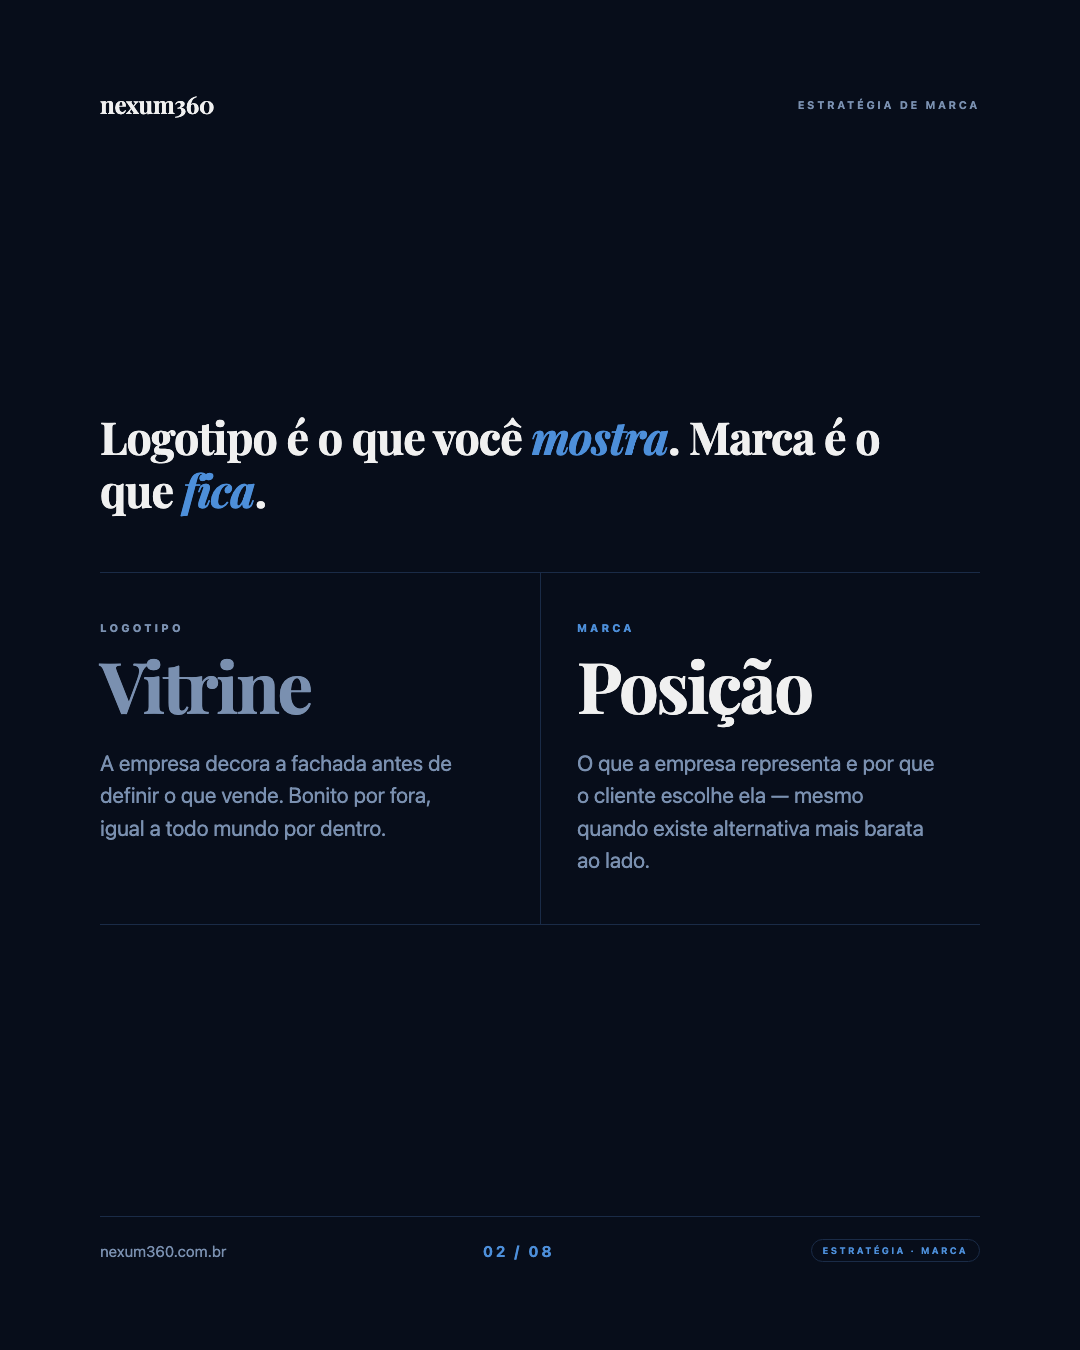
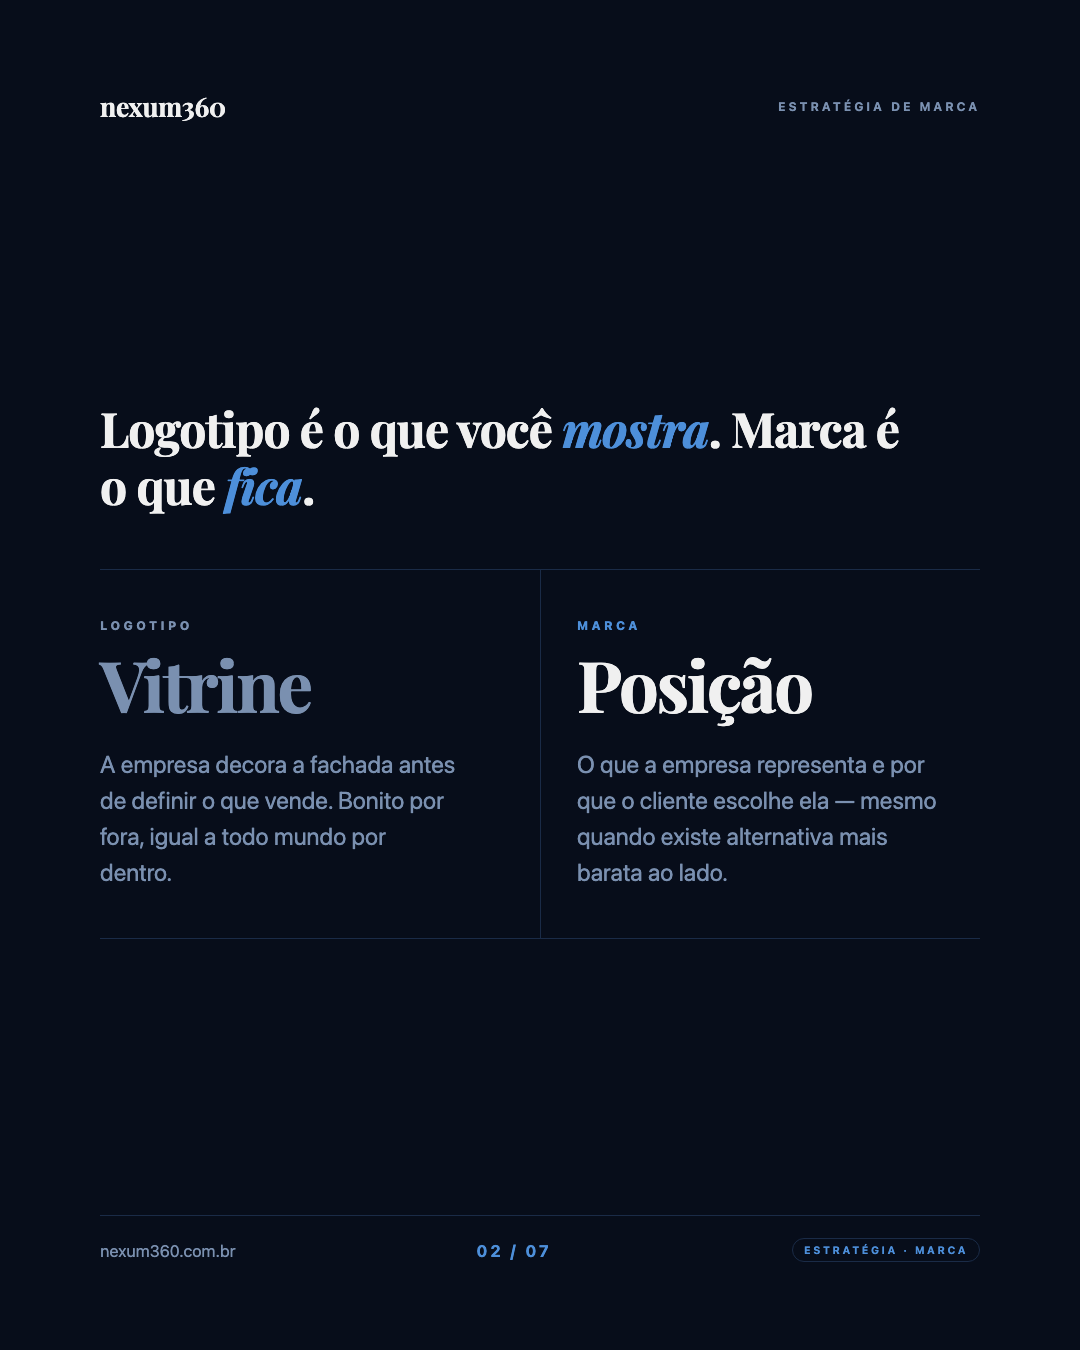
post8: remove slide 'mudasse de nome' e aumenta fontes
- Remove o slide 7 (teste prático) do carrossel, renumerando slide 8
  como 7 (CTA final) — agora carrossel de 7 slides.
- Bump conservador em todas as fontes para melhorar legibilidade no
  feed (regra sistêmica já está em api/generate-art.js).
- Ajusta layout do grid de método no slide 7 para evitar quebras
  ruins com a fonte maior.
- Bump STORAGE_KEY v10 → v11 para forçar refresh do pauta array.

diff --git a/index.html b/index.html
@@ -1538,7 +1538,7 @@
   </div>
 
   <script>
-    const STORAGE_KEY = 'nexum360_pautas_v10';
+    const STORAGE_KEY = 'nexum360_pautas_v11';
 
     const defaultData = [
       { id:1, tema:"A IA não vai te substituir — vai substituir quem não a usa", pilar:"Tecnologia e IA", rede_social:"Ambos", formato:"Carrossel", variante:"Dark", picah:["P","I"], status:"Publicado", gancho:"A IA não vai te substituir. Vai substituir quem não a usa.", angulo_nexum:"Posiciona a Nexum360 como parceira de transformação, não de substituição.", fonte:"", arquivo:"/public/posts/post1-transformacao-digital.html", slide_preview:"/public/images/post1-slide-01.png", legenda_ig:"A IA não vai te substituir.\nA pessoa que sabe usar IA, vai.\n\nE essa pessoa pode ser você — ou o seu concorrente.\n\nA transformação digital chegou para separar quem evolui de quem fica parado esperando a tempestade passar.\n\nFerramenta não demite ninguém. Quem demite é o gestor que percebeu que uma ferramenta faz o que você faz — mais rápido, mais barato, sem reclamar.\n\nA pergunta certa não é \"vou ser substituído?\"\nÉ \"o que eu consigo fazer com tecnologia que ninguém mais consegue?\"\n\nArraste os slides e veja como essa virada acontece na prática. 👉\n\nQuer entender como aplicar isso no seu negócio?\nFale com a Nexum360. 🔗 nexum360.com.br\n\n#TransformaçãoDigital #InteligênciaArtificial #MarketingDigital #Nexum360 #EstratégiaDeNegócios #InovacaoEmpresarial #Branding #IA #Automacao #GestaoEmpresarial #Crescimento #MarketingB2B #FuturoDoTrabalho #Tecnologia #Negocios", legenda_li:"A tecnologia não substitui pessoas.\nA falta de domínio dela, sim.\n\nToda grande transformação digital tem um ponto em comum: as empresas e profissionais que saíram na frente não foram os que tinham mais budget ou mais equipe. Foram os que entenderam mais rápido como usar as novas ferramentas a seu favor.\n\nIA, automação e dados não são ameaças — são vantagens competitivas para quem sabe operá-las estrategicamente.\n\nQual é o seu próximo movimento?\n\nNa Nexum360, ajudamos, treinamos e posicionamos empresas para dominar a tecnologia que gera resultado.\n\n📩 nexum360.com.br\n\n#TransformacaoDigital #InteligenciaArtificial #Estrategia #Negocios #Inovacao #Nexum360 #Marketing #Automacao #LiderancaEmpresarial #GestaoDeNegócios #IA #FuturoDigital #Crescimento #B2B", data_criacao:"2026-04-13", data_planejada:"2026-04-13", data_publicacao:"2026-04-13", notas:"Carrossel de 8 slides.", slides:["/public/images/post1-slide-01.png","/public/images/post1-slide-02.png","/public/images/post1-slide-03.png","/public/images/post1-slide-04.png","/public/images/post1-slide-05.png","/public/images/post1-slide-06.png","/public/images/post1-slide-07.png","/public/images/post1-slide-08.png"] },
@@ -1548,7 +1548,7 @@
       { id:5, tema:"Harvard Business Review: decisão por consenso não funciona na era da IA", pilar:"Mentalidade e Gestão Empresarial", rede_social:"LinkedIn", formato:"Post Único", variante:"Dark", picah:["P","C"], status:"Ideia", gancho:"O modelo de decisão que construiu sua empresa pode ser o que está te travando.", angulo_nexum:"Consenso é lento e distorce informação. Decisão ágil é vantagem competitiva.", fonte:"Harvard Business Review — abril 2026", arquivo:"", slide_preview:"", legenda_ig:"", legenda_li:"", data_criacao:"2026-04-14", data_planejada:null, data_publicacao:null, notas:"Provocação forte. Pode derivar em carrossel." },
       { id:6, tema:"Em 2 anos, IA saiu de 32,8% para 95,2% das prioridades empresariais no Brasil", pilar:"Tecnologia e IA", rede_social:"Ambos", formato:"Carrossel", variante:"Blue", picah:["A","P"], status:"Pronto", gancho:"Adotar IA sem estratégia de decisão é só trocar planilha por chatbot.", angulo_nexum:"Todos entraram na corrida. Poucos sabem onde está a chegada.", fonte:"Panorama 2026 — Amcham Brasil", arquivo:"/public/posts/post6-ia-prioridade.html", slide_preview:"/public/images/post6-slide-01.png", legenda_ig:"Em 2023, apenas 32,8% das empresas brasileiras tinham IA como prioridade estratégica.\n\nEm 2025: 95,2%.\n\nEm menos de 24 meses, o mercado virou de cabeça para baixo — sem aviso, sem esperar ninguém estar pronto.\n\nMas aqui está o ponto que ninguém está falando:\n\nPriorizar não é implementar.\nImplementar não é integrar.\nIntegrar sem estratégia não transforma negócio.\n\nO mercado está cheio de empresas com IA e sem resultado.\n\nComprar ferramenta de IA ≠ ter estratégia de IA.\nAutomatizar processo ruim = processo ruim mais rápido.\nIA sem dados de qualidade = decisões erradas em escala.\n\nA corrida não é de quem implementou primeiro.\nÉ de quem implementou com inteligência.\n\nA pergunta que você precisa responder hoje:\nVocê está usando IA para crescer — ou para se sentir moderno?\n\nA Nexum360 transforma IA em decisão, resultado e crescimento real. Não em projeto piloto.\n\n👇 Salva esse post. Compartilha com quem precisa ouvir isso.\n\n#InteligênciaArtificial #EstrategiaDeIA #TransformacaoDigital #Nexum360 #EstrategiaQueGera #NexumInteligencia #Negócios #IANasEmpresas #GestaoEmpresarial #Empreendedorismo #MarketingDigital #InovacaoEmpresarial", legenda_li:"Dois anos. 32,8% → 95,2%.\n\nEsse é o salto da IA nas prioridades estratégicas das empresas brasileiras.\n\nMas enquanto todo mundo fala do número, poucos estão fazendo a pergunta certa:\n\nDe quantas dessas empresas a IA está gerando resultado real?\n\nVejo empresas comprando plataformas de IA como se isso fosse estratégia. Implementando automações em processos mal desenhados. Gerando relatórios bonitos com dados ruins.\n\nIsso não é transformação. É ilusão de progresso.\n\nIA estratégica começa antes da tecnologia. Antes de qualquer implementação, três perguntas precisam ter resposta:\n\n→ Quais decisões do negócio se beneficiam de mais velocidade e menos viés?\n→ Onde estão os dados que você precisa — e estão estruturados?\n→ Qual resultado de negócio você espera em 90 dias?\n\nA corrida não é de quem chegou primeiro.\nÉ de quem chegou com inteligência.\n\nVocê está usando IA para crescer — ou para se sentir parte dos 95,2%?\n\n─────────────────────────\nNexum360 | Inteligência & Decisão com IA\nnexum360.com.br\n\n#InteligênciaArtificial #EstrategiaEmpresarial #TransformacaoDigital #LiderancaEmpresarial #Nexum360 #IANasEmpresas #DecisaoEstrategica #GestaoDeNegócios #InovacaoDigital #B2B", data_criacao:"2026-04-14", data_planejada:"2026-04-15", data_publicacao:null, notas:"Carrossel 8 slides variante Blue. Arte e legendas prontas.", slides:["/public/images/post6-slide-01.png","/public/images/post6-slide-02.png","/public/images/post6-slide-03.png","/public/images/post6-slide-04.png","/public/images/post6-slide-05.png","/public/images/post6-slide-06.png","/public/images/post6-slide-07.png","/public/images/post6-slide-08.png"] },
       { id:7, tema:"75% dos ganhos com IA são capturados por apenas 20% das empresas (PwC 2026)", pilar:"Tecnologia e IA", rede_social:"Ambos", formato:"Post Único", variante:"White", picah:["A","P"], status:"Pronto", gancho:"Não basta usar IA. Tem que decidir com ela.", angulo_nexum:"Líderes em IA tomam decisões sem intervenção humana 2,8x mais rápido.", fonte:"PwC AI Performance Study — abril 2026", arquivo:"/public/posts/post4-pwc-ia.html", slide_preview:"/public/images/post4-card.png", legenda_ig:"75% dos ganhos com IA são capturados por apenas 20% das empresas.\n\nEssa é a conclusão do relatório da PwC para 2026 — e ela não deveria surpreender ninguém que acompanha o mercado de perto.\n\nA maioria das empresas usa IA.\nPoucas decidem com ela.\n\nExiste uma diferença fundamental entre implementar ferramentas de IA e construir uma arquitetura de decisão baseada em dados em tempo real. O primeiro é aquisição. O segundo é vantagem competitiva.\n\nEmpresas que chegaram ao topo dessa curva não usam IA para automatizar tarefas periféricas. Elas usam IA para encurtar o ciclo entre dado, análise e decisão — e isso muda a velocidade com que capturam oportunidades e respondem a riscos.\n\nLíderes em IA tomam decisões sem intervenção humana 2,8x mais rápido.\n\nNão é sobre tecnologia. É sobre quem controla o ritmo do jogo.\n\nSe a sua empresa ainda está na fase de 'testar IA', a distância para os 20% não está diminuindo — está aumentando.\n\n—\n\nNa Nexum360, trabalhamos com empresas que decidiram parar de acompanhar a tendência e começar a ditar o ritmo.\n\nSe esse é o seu momento, a conversa começa aqui.\n\n#InteligênciaArtificial #Estratégia #Liderança #Decisão #Nexum360 #TransformaçãoDigital #GestãoEmpresarial", legenda_li:"75% dos ganhos com IA são capturados por apenas 20% das empresas.\n\nEssa é a conclusão do relatório da PwC para 2026 — e ela não deveria surpreender ninguém que acompanha o mercado de perto.\n\nA maioria das empresas usa IA.\nPoucas decidem com ela.\n\nExiste uma diferença fundamental entre implementar ferramentas de IA e construir uma arquitetura de decisão baseada em dados em tempo real. O primeiro é aquisição. O segundo é vantagem competitiva.\n\nEmpresas que chegaram ao topo dessa curva não usam IA para automatizar tarefas periféricas. Elas usam IA para encurtar o ciclo entre dado, análise e decisão — e isso muda a velocidade com que capturam oportunidades e respondem a riscos.\n\nLíderes em IA tomam decisões sem intervenção humana 2,8x mais rápido.\n\nNão é sobre tecnologia. É sobre quem controla o ritmo do jogo.\n\nSe a sua empresa ainda está na fase de 'testar IA', a distância para os 20% não está diminuindo — está aumentando.\n\n—\n\nNa Nexum360, trabalhamos com empresas que decidiram parar de acompanhar a tendência e começar a ditar o ritmo.\n\nSe esse é o seu momento, a conversa começa aqui.\n\n#InteligênciaArtificial #Estratégia #Liderança #Decisão #Nexum360 #TransformaçãoDigital #GestãoEmpresarial", data_criacao:"2026-04-20", data_planejada:null, data_publicacao:null, notas:"Card único variante White. Arte donut PwC 2026." },
-      { id:8, tema:"Sua marca tem personalidade — ou só tem logotipo?", pilar:"Estratégia de Marca", rede_social:"Instagram", formato:"Carrossel", variante:"Blue", picah:["P","C"], status:"Pronto", gancho:"A diferença não aparece no manual de identidade. Aparece na decisão do cliente.", angulo_nexum:"Na Nexum360, posicionamento vem antes de identidade visual — porque marca não é decoração, é decisão estratégica.", fonte:"", arquivo:"/public/posts/post8-branding-personalidade.html", slide_preview:"/public/images/post8-slide-01.png", legenda_ig:"Sua marca tem personalidade — ou só tem logotipo?\n\nA diferença não está no PDF da agência. Está na decisão do cliente.\n\nEmpresa que investe em identidade visual antes de posicionamento está decorando uma vitrine vazia. Bonito por fora, igual a todo mundo por dentro.\n\nTrês sinais de que a sua marca é só logo:\n→ o cliente chega pelo preço\n→ o time de vendas precisa explicar o que vocês fazem\n→ qualquer concorrente poderia assinar o conteúdo da sua empresa\n\nPersonalidade de marca não está no visual — está na decisão. É o que ela escolhe dizer, o que se recusa a fazer e o tipo de cliente que afasta de propósito.\n\nMarca sem posicionamento compete por preço. Sempre.\nBranding não resolve vendas — resolve percepção.\n\nA pergunta que separa marca de logotipo: se a sua empresa mudasse de nome amanhã, o cliente continuaria escolhendo?\n\nSe a resposta é não, você tem um logotipo. Não uma marca.\n\nMarca é estratégia com aparência. Não o contrário.\n\nNa Nexum360, construímos marca a partir do posicionamento — depois a identidade ganha sentido.\n🔗 nexum360.com.br\n\n#EstrategiaDeMarca #Branding #Posicionamento #Nexum360 #MarketingEstrategico #IdentidadeDeMarca #GestaoEmpresarial #Empreendedorismo #ConsultoriaDeMarca #Negocios #MarcaForte #MarketingB2B", legenda_li:"Sua marca tem personalidade — ou só tem logotipo?\n\nA diferença não aparece no manual de identidade. Aparece na decisão do cliente.\n\nToda reunião de branding que começa pela cor, fonte ou símbolo é um sintoma: a empresa quer vestir a marca antes de definir o que ela é. O resultado é previsível — identidade visual bonita sustentando uma proposta de valor indefinida.\n\nExistem três sinais clínicos de que a sua marca é, na prática, apenas um logotipo:\n\n→ o cliente chega pela variável preço, não pela proposta\n→ o time comercial precisa explicar o que vocês fazem antes de vender\n→ qualquer concorrente do setor poderia assinar o conteúdo que vocês produzem\n\nPersonalidade de marca não está no visual. Está na decisão estratégica. É o que a empresa escolhe dizer, o que se recusa a fazer, o tipo de cliente que afasta deliberadamente e a posição de valor que sustenta mesmo quando a concorrência corta preço.\n\nMarca sem posicionamento compete por preço. Sempre. Sem critério claro de valor percebido, o cliente só tem um eixo para decidir — e nesse eixo sempre haverá alguém mais barato.\n\nBranding não resolve vendas. Resolve percepção. Quem confunde os dois espera ROI em 30 dias e desiste no 31. Percepção consistente é ativo de longo prazo que sustenta margem, autoridade e recorrência comercial.\n\nA pergunta que separa marca de logotipo:\nSe a sua empresa mudasse de nome amanhã, o cliente continuaria escolhendo?\n\nSe a resposta é não, você tem um logotipo caro — não uma marca.\n\nMarca é estratégia com aparência. Nunca o contrário.\n\nNa Nexum360, construímos marca a partir do posicionamento. A identidade visual é consequência de uma definição estratégica clara, não o ponto de partida.\n\n📩 nexum360.com.br\n\n#EstrategiaDeMarca #Branding #Posicionamento #ConsultoriaEstrategica #Nexum360 #IdentidadeDeMarca #GestaoEmpresarial #LiderancaEmpresarial #MarcaForte #MarketingB2B", data_criacao:"2026-04-22", data_planejada:null, data_publicacao:null, notas:"Carrossel 8 slides Blue. Pilar Estratégia de Marca. Gerado via /gerar-post.", slides:["/public/images/post8-slide-01.png","/public/images/post8-slide-02.png","/public/images/post8-slide-03.png","/public/images/post8-slide-04.png","/public/images/post8-slide-05.png","/public/images/post8-slide-06.png","/public/images/post8-slide-07.png","/public/images/post8-slide-08.png"] }
+      { id:8, tema:"Sua marca tem personalidade — ou só tem logotipo?", pilar:"Estratégia de Marca", rede_social:"Instagram", formato:"Carrossel", variante:"Blue", picah:["P","C"], status:"Pronto", gancho:"A diferença não aparece no manual de identidade. Aparece na decisão do cliente.", angulo_nexum:"Na Nexum360, posicionamento vem antes de identidade visual — porque marca não é decoração, é decisão estratégica.", fonte:"", arquivo:"/public/posts/post8-branding-personalidade.html", slide_preview:"/public/images/post8-slide-01.png", legenda_ig:"Sua marca tem personalidade — ou só tem logotipo?\n\nA diferença não está no PDF da agência. Está na decisão do cliente.\n\nEmpresa que investe em identidade visual antes de posicionamento está decorando uma vitrine vazia. Bonito por fora, igual a todo mundo por dentro.\n\nTrês sinais de que a sua marca é só logo:\n→ o cliente chega pelo preço\n→ o time de vendas precisa explicar o que vocês fazem\n→ qualquer concorrente poderia assinar o conteúdo da sua empresa\n\nPersonalidade de marca não está no visual — está na decisão. É o que ela escolhe dizer, o que se recusa a fazer e o tipo de cliente que afasta de propósito.\n\nMarca sem posicionamento compete por preço. Sempre.\nBranding não resolve vendas — resolve percepção.\n\nA pergunta que separa marca de logotipo: se a sua empresa mudasse de nome amanhã, o cliente continuaria escolhendo?\n\nSe a resposta é não, você tem um logotipo. Não uma marca.\n\nMarca é estratégia com aparência. Não o contrário.\n\nNa Nexum360, construímos marca a partir do posicionamento — depois a identidade ganha sentido.\n🔗 nexum360.com.br\n\n#EstrategiaDeMarca #Branding #Posicionamento #Nexum360 #MarketingEstrategico #IdentidadeDeMarca #GestaoEmpresarial #Empreendedorismo #ConsultoriaDeMarca #Negocios #MarcaForte #MarketingB2B", legenda_li:"Sua marca tem personalidade — ou só tem logotipo?\n\nA diferença não aparece no manual de identidade. Aparece na decisão do cliente.\n\nToda reunião de branding que começa pela cor, fonte ou símbolo é um sintoma: a empresa quer vestir a marca antes de definir o que ela é. O resultado é previsível — identidade visual bonita sustentando uma proposta de valor indefinida.\n\nExistem três sinais clínicos de que a sua marca é, na prática, apenas um logotipo:\n\n→ o cliente chega pela variável preço, não pela proposta\n→ o time comercial precisa explicar o que vocês fazem antes de vender\n→ qualquer concorrente do setor poderia assinar o conteúdo que vocês produzem\n\nPersonalidade de marca não está no visual. Está na decisão estratégica. É o que a empresa escolhe dizer, o que se recusa a fazer, o tipo de cliente que afasta deliberadamente e a posição de valor que sustenta mesmo quando a concorrência corta preço.\n\nMarca sem posicionamento compete por preço. Sempre. Sem critério claro de valor percebido, o cliente só tem um eixo para decidir — e nesse eixo sempre haverá alguém mais barato.\n\nBranding não resolve vendas. Resolve percepção. Quem confunde os dois espera ROI em 30 dias e desiste no 31. Percepção consistente é ativo de longo prazo que sustenta margem, autoridade e recorrência comercial.\n\nA pergunta que separa marca de logotipo:\nSe a sua empresa mudasse de nome amanhã, o cliente continuaria escolhendo?\n\nSe a resposta é não, você tem um logotipo caro — não uma marca.\n\nMarca é estratégia com aparência. Nunca o contrário.\n\nNa Nexum360, construímos marca a partir do posicionamento. A identidade visual é consequência de uma definição estratégica clara, não o ponto de partida.\n\n📩 nexum360.com.br\n\n#EstrategiaDeMarca #Branding #Posicionamento #ConsultoriaEstrategica #Nexum360 #IdentidadeDeMarca #GestaoEmpresarial #LiderancaEmpresarial #MarcaForte #MarketingB2B", data_criacao:"2026-04-22", data_planejada:null, data_publicacao:null, notas:"Carrossel 7 slides Blue. Pilar Estratégia de Marca. Gerado via /gerar-post.", slides:["/public/images/post8-slide-01.png","/public/images/post8-slide-02.png","/public/images/post8-slide-03.png","/public/images/post8-slide-04.png","/public/images/post8-slide-05.png","/public/images/post8-slide-06.png","/public/images/post8-slide-07.png"] }
     ];
 
     const KNOWN_SLIDES = {
